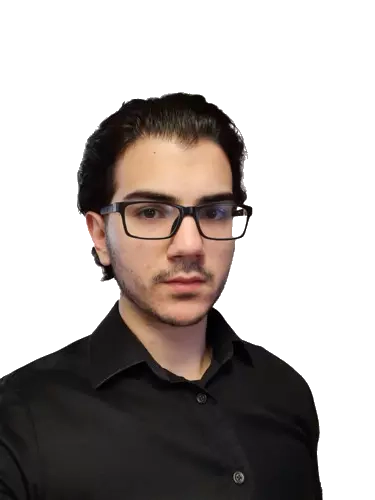
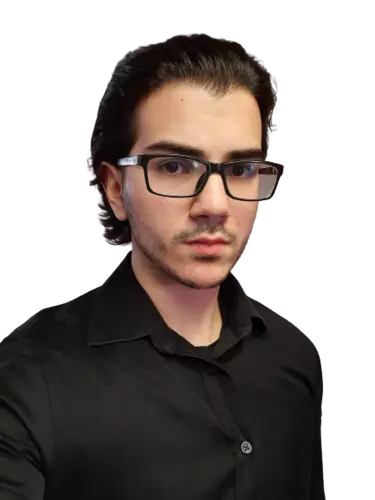
New headshot picture

diff --git a/src/styles/css/main.css b/src/styles/css/main.css
@@ -164,6 +164,7 @@ li {
   width: 100%;
   height: 100%;
   object-fit: cover;
+  object-position: 50% 25%;
 }
 
 .navbar {

diff --git a/src/styles/scss/components/navigation/_navbar.scss b/src/styles/scss/components/navigation/_navbar.scss
@@ -20,6 +20,7 @@
     width: 100%;
     height: 100%;
     object-fit: cover;
+    object-position: 50% 25%;
   }
 }
 
